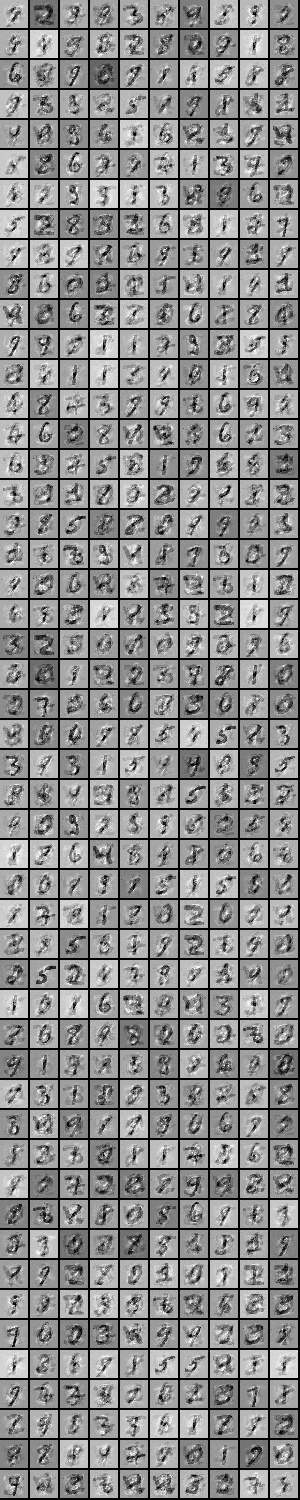
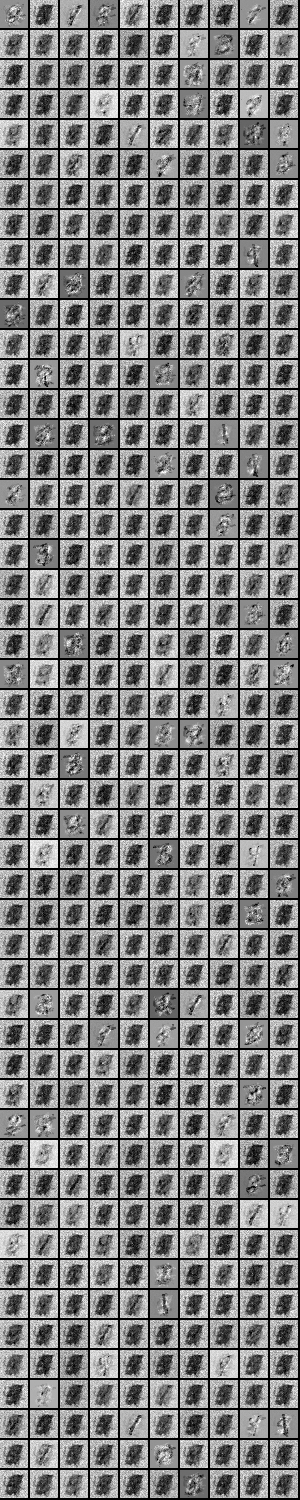
face reconstruction

diff --git a/deeplearning4j-core/src/main/java/org/deeplearning4j/base/LFWLoader.java b/deeplearning4j-core/src/main/java/org/deeplearning4j/base/LFWLoader.java
@@ -30,7 +30,7 @@ public class LFWLoader {
 	private static Logger log = LoggerFactory.getLogger(LFWLoader.class);
 	private int numNames;
 	private int numPixelColumns;
-	private ImageLoader loader = new ImageLoader();
+	private ImageLoader loader = new ImageLoader(28,28);
 	private List<String> images = new ArrayList<String>();
 	private List<String> outcomes = new ArrayList<String>();
 	
@@ -64,7 +64,7 @@ public class LFWLoader {
 	
 	
 	
-	public Pair<DoubleMatrix,DoubleMatrix> convertListPairs(List<Pair<DoubleMatrix,DoubleMatrix>> images) {
+	public DataSet convertListPairs(List<DataSet> images) {
 		DoubleMatrix inputs = new DoubleMatrix(images.size(),numPixelColumns);
 		DoubleMatrix outputs = new DoubleMatrix(images.size(),numNames);
 		
@@ -72,7 +72,7 @@ public class LFWLoader {
 			inputs.putRow(i,images.get(i).getFirst());
 			outputs.putRow(i,images.get(i).getSecond());
 		}
-		return new Pair<DoubleMatrix,DoubleMatrix>(inputs,outputs);
+		return new DataSet(inputs,outputs);
 	}
 	
 	
@@ -93,8 +93,8 @@ public class LFWLoader {
 	 * @return 
 	 * @throws Exception
 	 */
-	public List<Pair<DoubleMatrix,DoubleMatrix>> getFirst(int num) throws Exception {
-		List<Pair<DoubleMatrix,DoubleMatrix>> ret = new ArrayList<>(num);
+	public List<DataSet> getFirst(int num) throws Exception {
+		List<DataSet> ret = new ArrayList<>(num);
 		File[] files = lfwDir.listFiles();
 		int label = 0;
 		for(File file : files) {
@@ -107,19 +107,19 @@ public class LFWLoader {
 		return ret;
 	}
 	
-	public Pair<DoubleMatrix,DoubleMatrix> getAllImagesAsMatrix() throws Exception {
-		List<Pair<DoubleMatrix,DoubleMatrix>> images = getImagesAsList();
+	public DataSet getAllImagesAsMatrix() throws Exception {
+		List<DataSet> images = getImagesAsList();
 		return convertListPairs(images);
 	}
 	
 
-	public Pair<DoubleMatrix,DoubleMatrix> getAllImagesAsMatrix(int numRows) throws Exception {
-		List<Pair<DoubleMatrix,DoubleMatrix>> images = getImagesAsList().subList(0, numRows);
+	public DataSet getAllImagesAsMatrix(int numRows) throws Exception {
+		List<DataSet> images = getImagesAsList().subList(0, numRows);
 		return convertListPairs(images);
 	}
 	
-	public List<Pair<DoubleMatrix,DoubleMatrix>> getImagesAsList() throws Exception {
-		List<Pair<DoubleMatrix,DoubleMatrix>> list = new ArrayList<Pair<DoubleMatrix,DoubleMatrix>>();
+	public List<DataSet> getImagesAsList() throws Exception {
+		List<DataSet> list = new ArrayList<DataSet>();
 		File[] dirs = lfwDir.listFiles();
 		for(int i = 0; i < dirs.length; i++) {
 			list.addAll(getImages(i,dirs[i]));
@@ -127,19 +127,19 @@ public class LFWLoader {
 		return list;
 	}
 	
-	public List<Pair<DoubleMatrix,DoubleMatrix>> getImages(int label,File file) throws Exception {
+	public List<DataSet> getImages(int label,File file) throws Exception {
 		File[] images = file.listFiles();
-		List<Pair<DoubleMatrix,DoubleMatrix>> ret = new ArrayList<>();
+		List<DataSet> ret = new ArrayList<>();
 		for(File f : images)
 			ret.add(fromImageFile(label,f));
 		return ret;
 	}
 	
 	
-	public Pair<DoubleMatrix,DoubleMatrix> fromImageFile(int label,File image) throws Exception {
+	public DataSet fromImageFile(int label,File image) throws Exception {
 		DoubleMatrix outcome = MatrixUtil.toOutcomeVector(label, numNames);
 		DoubleMatrix image2 = MatrixUtil.toMatrix(loader.flattenedImageFromFile(image));
-		return new Pair<>(image2,outcome);
+		return new DataSet(image2,outcome);
 	}
 	
 	

diff --git a/deeplearning4j-core/src/main/java/org/deeplearning4j/util/ImageLoader.java b/deeplearning4j-core/src/main/java/org/deeplearning4j/util/ImageLoader.java
@@ -1,5 +1,7 @@
 package org.deeplearning4j.util;
 
+import java.awt.Graphics2D;
+import java.awt.Image;
 import java.awt.image.BufferedImage;
 import java.awt.image.Raster;
 import java.io.File;
@@ -8,34 +10,78 @@ import java.io.IOException;
 import javax.imageio.ImageIO;
 
 import org.jblas.DoubleMatrix;
-
+/**
+ * Image loader for taking images and converting them to matrices
+ * @author Adam Gibson
+ *
+ */
 public class ImageLoader {
 
+	private int width = -1;
+	private int height = -1;
 
-	
-	
+
+
+
+	public ImageLoader() {
+		super();
+	}
+
+	public ImageLoader(int width, int height) {
+		super();
+		this.width = width;
+		this.height = height;
+	}
+
 	public DoubleMatrix asRowVector(File f) throws Exception {
 		return MatrixUtil.toMatrix(flattenedImageFromFile(f));
 	}
-	
+
 	public DoubleMatrix asMatrix(File f) throws IOException {
 		return MatrixUtil.toMatrix(fromFile(f));
 	}
-	
+
 	public int[] flattenedImageFromFile(File f) throws Exception {
 		return ArrayUtil.flatten(fromFile(f));
 	}
-	
+
 	public int[][] fromFile(File file) throws IOException  {
 		BufferedImage image = ImageIO.read(file);
-	    Raster raster = image.getData();
-	    int w = raster.getWidth(),h = raster.getHeight();
-        int[][] ret = new int[w][h];
+		if(height > 0 && width > 0)
+			image =  toBufferedImage(image.getScaledInstance(height, width, Image.SCALE_SMOOTH));
+		Raster raster = image.getData();
+		int w = raster.getWidth(),h = raster.getHeight();
+		int[][] ret = new int[w][h];
 		for(int i = 0; i < w; i++)
 			for(int j = 0; j < h; j++)
 				ret[i][j] = raster.getSample(i, j, 0);
-        
+
 		return ret;
 	}
 
+	/**
+	 * Converts a given Image into a BufferedImage
+	 *
+	 * @param img The Image to be converted
+	 * @return The converted BufferedImage
+	 */
+	public static BufferedImage toBufferedImage(Image img)
+	{
+	    if (img instanceof BufferedImage)
+	    {
+	        return (BufferedImage) img;
+	    }
+
+	    // Create a buffered image with transparency
+	    BufferedImage bimage = new BufferedImage(img.getWidth(null), img.getHeight(null), BufferedImage.TYPE_INT_ARGB);
+
+	    // Draw the image on to the buffered image
+	    Graphics2D bGr = bimage.createGraphics();
+	    bGr.drawImage(img, 0, 0, null);
+	    bGr.dispose();
+
+	    // Return the buffered image
+	    return bimage;
+	}
+	
 }

diff --git a/deeplearning4j-examples/src/main/java/org/deeplearning4j/example/mnist/DenoisingAutoEncoderMnistExample.java b/deeplearning4j-examples/src/main/java/org/deeplearning4j/example/mnist/DenoisingAutoEncoderMnistExample.java
@@ -18,26 +18,26 @@ public class DenoisingAutoEncoderMnistExample {
 	 */
 	public static void main(String[] args) throws Exception {
 		DenoisingAutoEncoder autoEncoder = new DenoisingAutoEncoder.Builder()
-		.numberOfVisible(784).numHidden(600).normalizeByInputRows(true)
-		.useAdaGrad(false).useRegularization(false)
-		.withMomentum(0).build();
+		.numberOfVisible(784).numHidden(500).normalizeByInputRows(true)
+		.useAdaGrad(true).useRegularization(false).withSparsity(0)
+		.withMomentum(0.5).build();
 
 
 		//batches of 10, 60000 examples total
 		DataSetIterator iter = new RawMnistDataSetIterator(10,30);
-		//for(int i = 0;i < 10; i++) {
-		while(iter.hasNext()) {
-			DataSet next = iter.next();
-			//train with k = 1 0.01 learning rate and 1000 epochs
-			autoEncoder.trainTillConvergence(next.getFirst(), 1e-4, new Object[]{0.3,1e-4,1000});
+		for(int i = 0;i < 20; i++) {
+			while(iter.hasNext()) {
+				DataSet next = iter.next();
+				//train with k = 1 0.01 learning rate and 1000 epochs
+				autoEncoder.trainTillConvergence(next.getFirst(), 1e-1, new Object[]{0.6,1e-1,1000});
 
+
+			}
+
+
+			iter.reset();
 
 		}
-
-
-		iter.reset();
-
-		//}
 
 		FilterRenderer render = new FilterRenderer();
 		render.renderFilters(autoEncoder.getW(), "example-render.jpg", 28, 28);

diff --git a/deeplearning4j-core/src/main/java/org/deeplearning4j/datasets/fetchers/LFWDataFetcher.java b/deeplearning4j-core/src/main/java/org/deeplearning4j/datasets/fetchers/LFWDataFetcher.java
@@ -30,7 +30,7 @@ public class LFWDataFetcher extends BaseDataFetcher {
 			numOutcomes = loader.getNumNames();
 			totalExamples = NUM_IMAGES;
 		} catch (Exception e) {
-			throw new IllegalStateException("Unable to fetch images");
+			throw new IllegalStateException("Unable to fetch images",e);
 		}
 	}
 

diff --git a/deeplearning4j-core/src/main/java/org/deeplearning4j/rbm/ConvolutionalRBM.java b/deeplearning4j-core/src/main/java/org/deeplearning4j/rbm/ConvolutionalRBM.java
@@ -41,6 +41,9 @@ public class ConvolutionalRBM extends RBM {
 	}
 
 	
+	
+	
+	
 	public DoubleMatrix pooledExpectation(DoubleMatrix visible,double bias) {
 		DoubleMatrix filterMatrix = new DoubleMatrix(numFilters);
 		for(int k = 0; k < numFilters; k++) {
